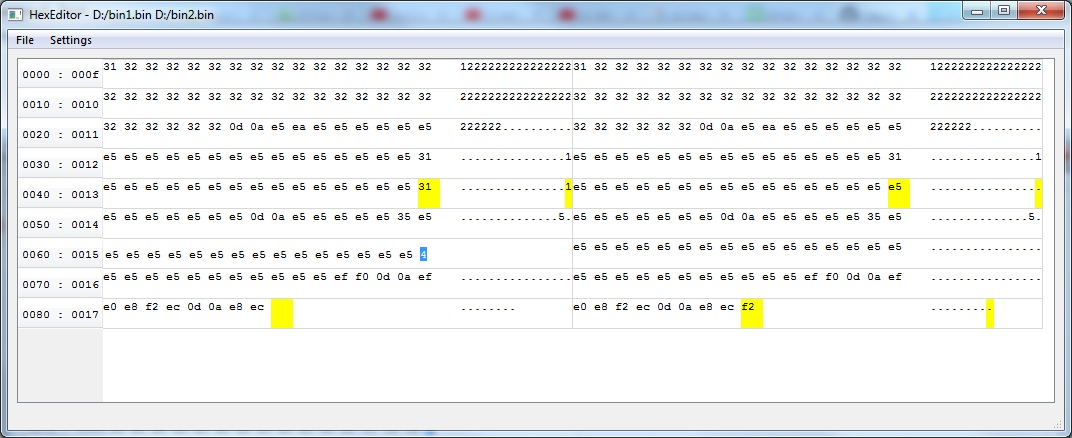
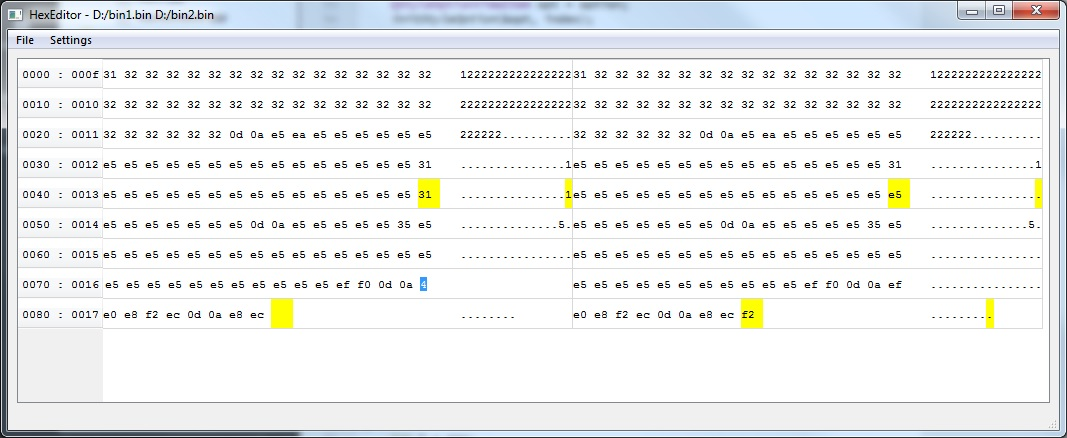
AlignVCenter

diff --git a/src/ByteArrayItemDelegate.cpp b/src/ByteArrayItemDelegate.cpp
@@ -72,7 +72,7 @@ void ByteArrayItemDelegate::paint(QPainter *painter, const QStyleOptionViewItem 
         }
     }
 
-    painter->drawText(option.rect, thisStr);
+    painter->drawText(option.rect, Qt::AlignVCenter, thisStr);
 }
 
 int ByteArrayItemDelegate::drawHighlighting(QPainter *painter, const QString &thisStr,
